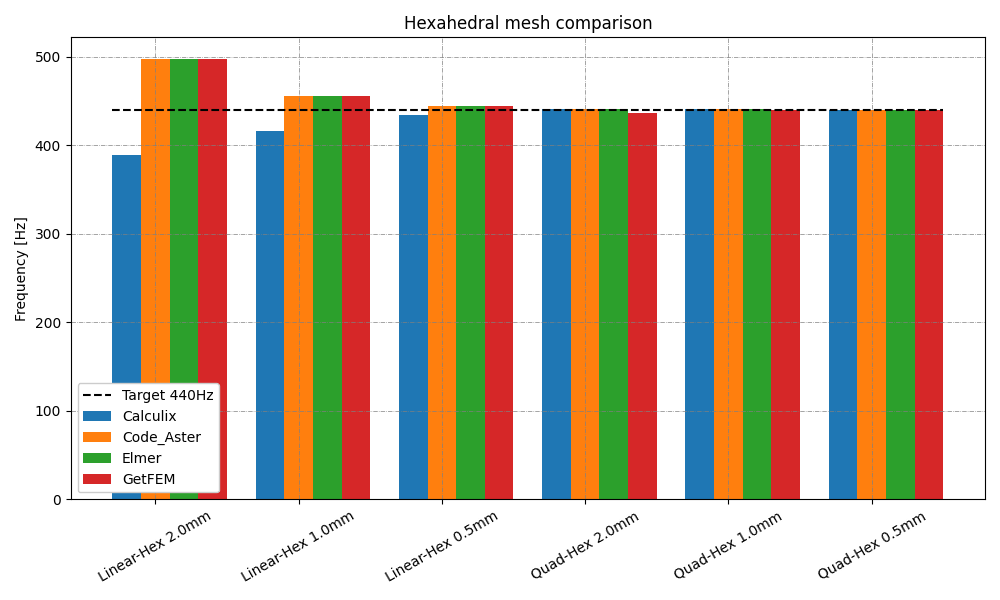
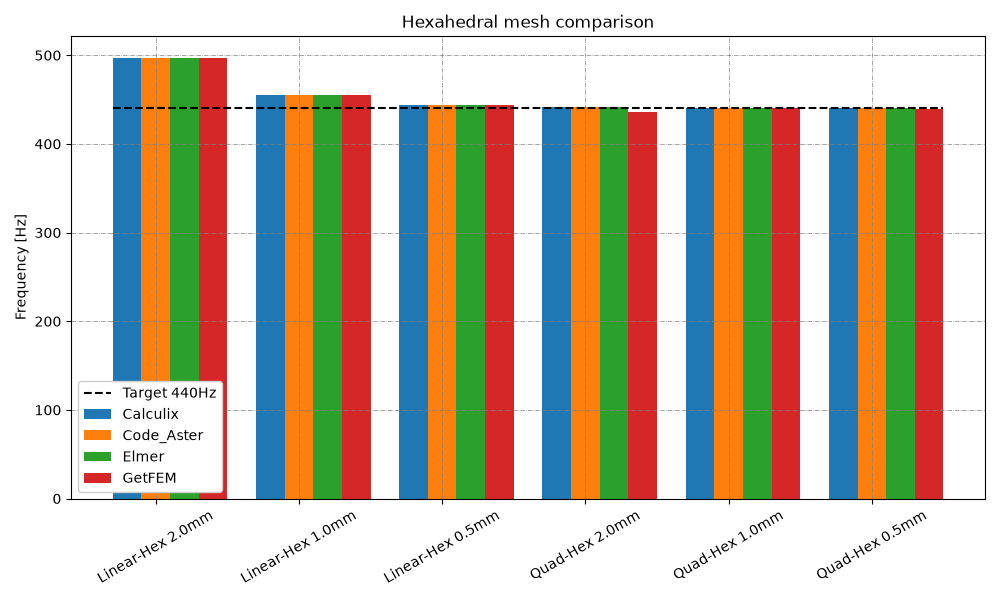
Add hexahedral mesh comparison function and update main execution flow

diff --git a/docs/benchmarks/000-tuning-fork/plot.py b/docs/benchmarks/000-tuning-fork/plot.py
@@ -4,13 +4,53 @@ plt.close('all')
 import pandas as pd
 import numpy as np
 
-def mesh_study():
+def mesh_study_tetrahedral():
     plot_title = 'Tetrahedral mesh comparison'
     file_name = 'tet-comparison.png'
     results = pd.read_csv('results.csv')
 
     lin_type = results['Mesh type'] == 'Linear-Tet'
     quad_type = results['Mesh type'] == 'Quad-Tet'
+    mesh_type = results[lin_type | quad_type]
+    zipped = zip(mesh_type['Mesh type'],mesh_type['Size'])
+    labels = ["{} {}mm".format(i[0], i[1]) for i in zipped]
+    ccx_values = mesh_type['Calculix'].tolist()
+    code_aster_values = mesh_type['Code_Aster'].tolist()
+    elmer_values = mesh_type['Elmer'].tolist()
+    getfem_values = mesh_type['GetFEM'].tolist()
+    x = np.arange(len(labels))  # the label locations
+
+    width = 0.2  # the width of the bars
+    # plt.style.use('seaborn-white') 
+    fig, ax = plt.subplots(figsize=(10,6))
+    ax.bar(x - 0.2, ccx_values, width, label='Calculix')
+    ax.bar(x, code_aster_values, width, label='Code_Aster')
+    ax.bar(x + 0.2, elmer_values, width, label='Elmer')
+    ax.bar(x + 0.4, getfem_values, width, label='GetFEM')
+
+    target_value_x = [-1.5 * width, len(mesh_type) - 1 + 2.5 * width]
+    ax.plot(target_value_x, 440.0 * np.ones_like(target_value_x), c='black',
+            ls=('dashed'), label='Target 440Hz')
+
+    ax.set_ylabel('Frequency [Hz]')
+    ax.set_title(plot_title)
+    ax.set_xticks(x)
+    ax.set_xticklabels(labels)
+    ax.legend(facecolor='white', framealpha=1)
+    props = {"rotation" : 30}
+    plt.setp(ax.get_xticklabels(), **props)
+    fig.tight_layout()
+    plt.grid(color='gray', linestyle='-.', linewidth=0.5)
+    fig.savefig(file_name)
+    plt.show()
+
+def mesh_study_hexahedral():
+    plot_title = 'Hexahedral mesh comparison'
+    file_name = 'hex-comparison.png'
+    results = pd.read_csv('results.csv')
+
+    lin_type = results['Mesh type'] == 'Linear-Hex'
+    quad_type = results['Mesh type'] == 'Quad-Hex'
     mesh_type = results[lin_type | quad_type]
     zipped = zip(mesh_type['Mesh type'],mesh_type['Size'])
     labels = ["{} {}mm".format(i[0], i[1]) for i in zipped]
@@ -85,5 +125,6 @@ def code_comparison():
     plt.show()
     
 if __name__ == "__main__":
-    mesh_study()
+    mesh_study_tetrahedral()
+    mesh_study_hexahedral()
     code_comparison()
